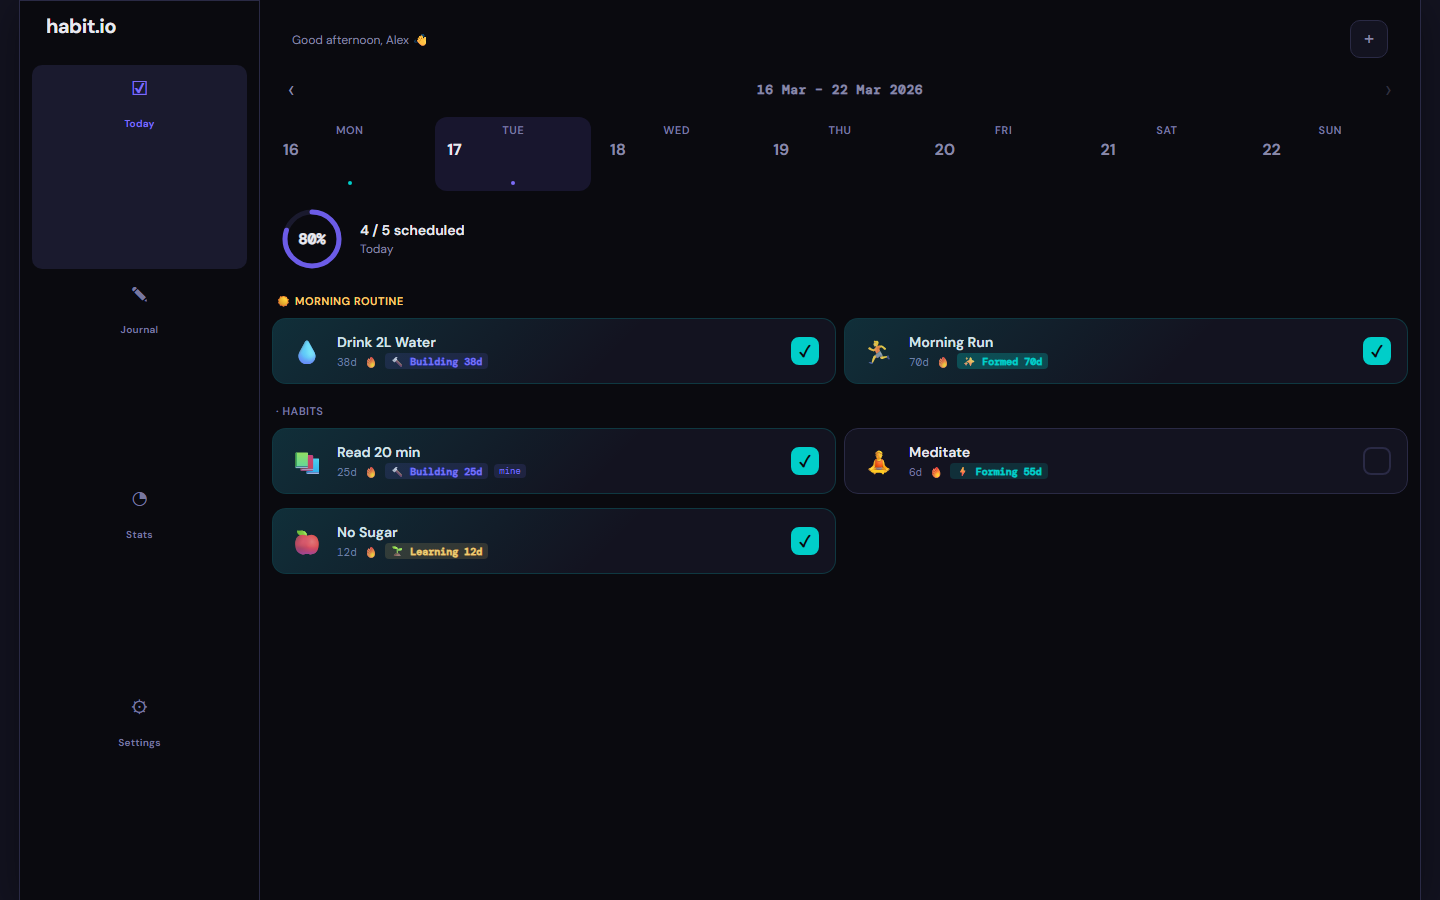
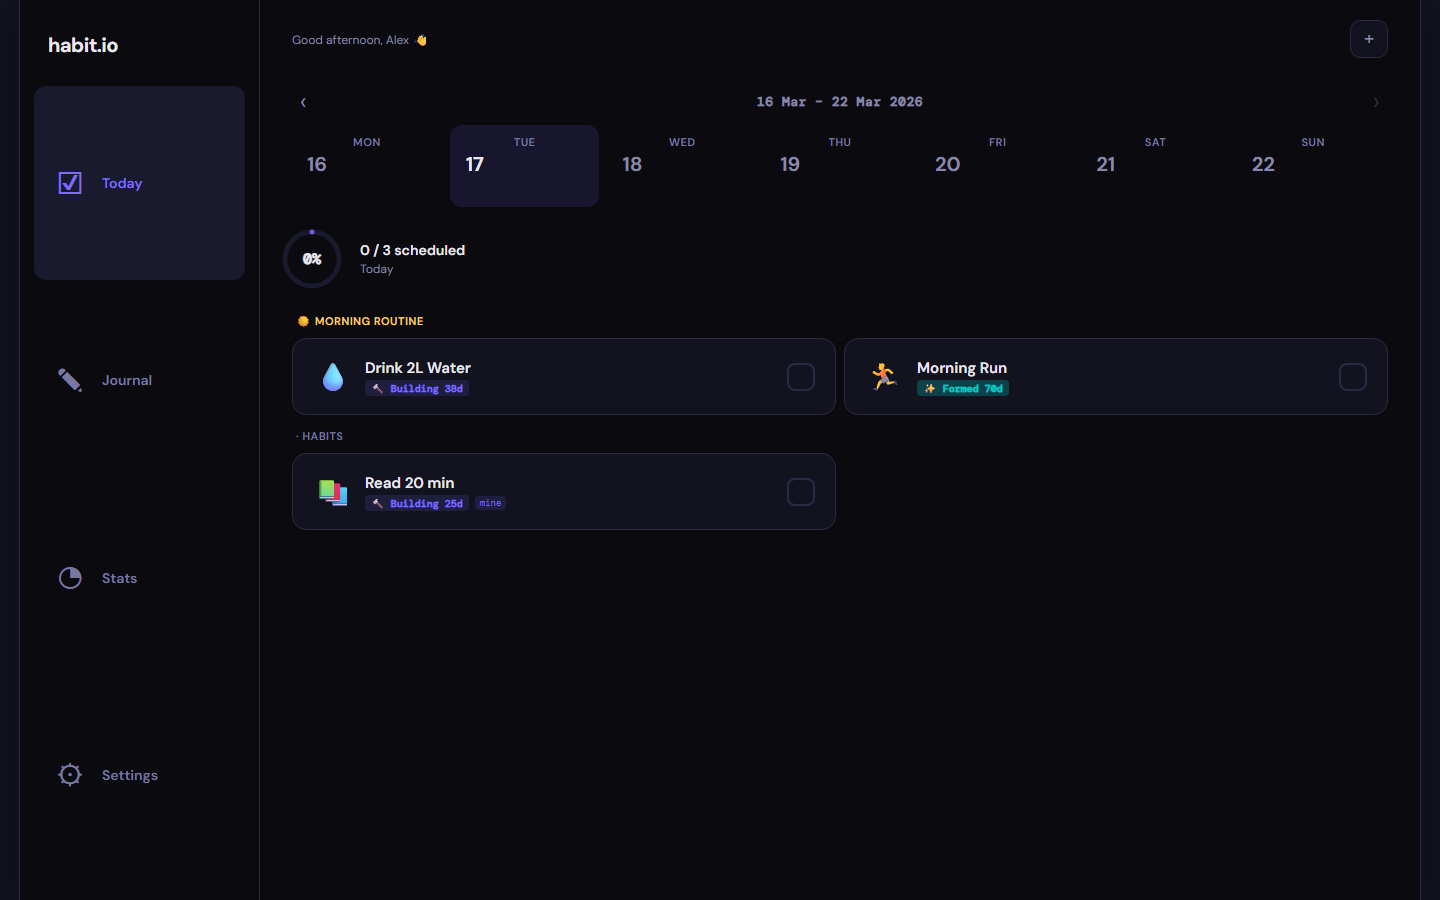
fix: move media queries to end of CSS so they correctly override base rules
The desktop responsive rules (nav icon size, grid layouts, etc.) were placed
before the base component rules, causing the base styles to win the cascade.
Moved both @media blocks to the end of styles.css — standard practice.

Also bumps sidebar nav icon size to 32px for better desktop legibility.

diff --git a/styles.css b/styles.css
@@ -51,185 +51,6 @@
         margin: 0 auto;
       }
 
-      /* ── Desktop / tablet sidebar layout ── */
-      @media (min-width: 768px) {
-        body {
-          background: var(--surface);
-        }
-        #app {
-          display: grid;
-          grid-template-columns: 200px 1fr;
-          grid-template-rows: 1fr;
-          max-width: 1400px;
-          height: 100vh;
-          background: var(--bg);
-          box-shadow: 0 0 0 1px var(--border), 0 8px 40px rgba(0,0,0,0.4);
-        }
-
-        /* ── Sidebar nav ── */
-        .bottom-nav {
-          grid-column: 1;
-          grid-row: 1;
-          flex-direction: column;
-          align-items: stretch;
-          height: 100vh;
-          border-top: none;
-          border-right: 1px solid var(--border);
-          padding: 28px 14px calc(28px + env(safe-area-inset-bottom, 0px));
-          gap: 4px;
-          overflow-y: auto;
-        }
-        .bottom-nav::before {
-          content: 'habit.io';
-          display: block;
-          font-size: 20px;
-          font-weight: 700;
-          letter-spacing: -0.5px;
-          color: var(--text);
-          padding: 4px 14px 24px;
-        }
-        .nav-tab {
-          flex-direction: row;
-          justify-content: flex-start;
-          gap: 14px;
-          padding: 14px 16px;
-          border-radius: 12px;
-          text-align: left;
-        }
-        .nav-icon {
-          font-size: 22px;
-          margin-bottom: 0;
-          width: 26px;
-          text-align: center;
-        }
-        .nav-label {
-          font-size: 14px;
-          font-weight: 600;
-          letter-spacing: 0;
-        }
-        .nav-tab.active {
-          background: var(--surface-2);
-        }
-
-        /* ── Pages ── */
-        .page {
-          grid-column: 2;
-          grid-row: 1;
-          overflow: hidden;
-        }
-        .page.active {
-          display: flex;
-        }
-        .page .header {
-          padding: 28px 32px 16px;
-        }
-        .page .header h1 {
-          font-size: 26px;
-        }
-        .page-scroll {
-          padding: 16px 32px 32px;
-        }
-
-        /* ── Habit cards: 2-column grid ── */
-        .habits-scroll {
-          padding: 0 32px 16px;
-          display: grid;
-          grid-template-columns: repeat(2, 1fr);
-          gap: 8px;
-          align-content: start;
-        }
-        /* Section labels and CTA span full width */
-        .habit-section-label,
-        .first-habit-cta,
-        .onboarding,
-        .motiv-card {
-          grid-column: 1 / -1;
-        }
-        .habit-card {
-          margin-bottom: 0;
-          padding: 18px 20px;
-        }
-        .habit-emoji {
-          font-size: 28px;
-          width: 40px;
-        }
-        .habit-name {
-          font-size: 15px;
-        }
-
-        /* ── Week strip: bigger day cols ── */
-        .week-nav {
-          padding: 12px 32px 8px;
-        }
-        .days-header {
-          padding: 0 32px 12px;
-          gap: 8px;
-        }
-        .day-col {
-          padding: 10px 6px;
-          font-size: 13px;
-          border-radius: 12px;
-        }
-        .day-num {
-          font-size: 20px;
-          width: 38px;
-          height: 38px;
-        }
-
-        /* ── Progress header ── */
-        .progress-header {
-          margin: 8px 32px 16px;
-        }
-
-        /* ── Stat cards: 2-column grid ── */
-        #stats-content {
-          display: grid;
-          grid-template-columns: repeat(2, 1fr);
-          gap: 12px;
-          align-content: start;
-          padding: 16px 32px 32px;
-          overflow-y: auto;
-        }
-        #stats-content .stat-card {
-          margin-bottom: 0;
-        }
-        #stats-content .stat-card:first-child {
-          grid-column: 1 / -1;
-        }
-
-        /* ── Modal: centered dialog ── */
-        .modal {
-          border-radius: 20px;
-          max-width: 560px;
-          margin: auto;
-          max-height: 80vh;
-        }
-        .modal-overlay {
-          align-items: center;
-          justify-content: center;
-        }
-
-        /* ── Tracker header: hide app title (shown in sidebar), keep greeting ── */
-        #page-tracker .header h1 {
-          display: none;
-        }
-        #page-tracker .header {
-          justify-content: space-between;
-          padding-top: 20px;
-        }
-      }
-
-      @media (min-width: 1200px) {
-        #app {
-          grid-template-columns: 240px 1fr;
-        }
-        .habit-group-items {
-          grid-template-columns: repeat(3, 1fr);
-        }
-        .page .header h1 {
-          font-size: 28px;
-        }
-      }
       .header {
         padding: 16px 20px 12px;
         display: flex;
@@ -1485,4 +1306,188 @@
         background: var(--accent);
         border-color: var(--accent);
         color: var(--bg);
+      }
+
+      /* ── Desktop / tablet sidebar layout ── */
+      @media (min-width: 768px) {
+        body {
+          background: var(--surface);
+        }
+        #app {
+          display: grid;
+          grid-template-columns: 200px 1fr;
+          grid-template-rows: 1fr;
+          max-width: 1400px;
+          height: 100vh;
+          background: var(--bg);
+          box-shadow: 0 0 0 1px var(--border), 0 8px 40px rgba(0,0,0,0.4);
+        }
+
+        /* ── Sidebar nav ── */
+        .bottom-nav {
+          grid-column: 1;
+          grid-row: 1;
+          flex-direction: column;
+          align-items: stretch;
+          height: 100vh;
+          border-top: none;
+          border-right: 1px solid var(--border);
+          padding: 28px 14px calc(28px + env(safe-area-inset-bottom, 0px));
+          gap: 4px;
+          overflow-y: auto;
+        }
+        .bottom-nav::before {
+          content: 'habit.io';
+          display: block;
+          font-size: 20px;
+          font-weight: 700;
+          letter-spacing: -0.5px;
+          color: var(--text);
+          padding: 4px 14px 24px;
+        }
+        .nav-tab {
+          flex-direction: row;
+          justify-content: flex-start;
+          gap: 14px;
+          padding: 14px 16px;
+          border-radius: 12px;
+          text-align: left;
+        }
+        .nav-icon {
+          font-size: 32px;
+          margin-bottom: 0;
+          width: 36px;
+          text-align: center;
+          line-height: 1;
+        }
+        .nav-label {
+          font-size: 14px;
+          font-weight: 600;
+          letter-spacing: 0;
+        }
+        .nav-tab {
+          padding: 16px 18px;
+        }
+        .nav-tab.active {
+          background: var(--surface-2);
+        }
+
+        /* ── Pages ── */
+        .page {
+          grid-column: 2;
+          grid-row: 1;
+          overflow: hidden;
+        }
+        .page.active {
+          display: flex;
+        }
+        .page .header {
+          padding: 28px 32px 16px;
+        }
+        .page .header h1 {
+          font-size: 26px;
+        }
+        .page-scroll {
+          padding: 16px 32px 32px;
+        }
+
+        /* ── Habit cards: 2-column grid ── */
+        .habits-scroll {
+          padding: 0 32px 16px;
+          display: grid;
+          grid-template-columns: repeat(2, 1fr);
+          gap: 8px;
+          align-content: start;
+        }
+        /* Section labels and CTA span full width */
+        .habit-section-label,
+        .first-habit-cta,
+        .onboarding,
+        .motiv-card {
+          grid-column: 1 / -1;
+        }
+        .habit-card {
+          margin-bottom: 0;
+          padding: 18px 20px;
+        }
+        .habit-emoji {
+          font-size: 28px;
+          width: 40px;
+        }
+        .habit-name {
+          font-size: 15px;
+        }
+
+        /* ── Week strip: bigger day cols ── */
+        .week-nav {
+          padding: 12px 32px 8px;
+        }
+        .days-header {
+          padding: 0 32px 12px;
+          gap: 8px;
+        }
+        .day-col {
+          padding: 10px 6px;
+          font-size: 13px;
+          border-radius: 12px;
+        }
+        .day-num {
+          font-size: 20px;
+          width: 38px;
+          height: 38px;
+        }
+
+        /* ── Progress header ── */
+        .progress-header {
+          margin: 8px 32px 16px;
+        }
+
+        /* ── Stat cards: 2-column grid ── */
+        #stats-content {
+          display: grid;
+          grid-template-columns: repeat(2, 1fr);
+          gap: 12px;
+          align-content: start;
+          padding: 16px 32px 32px;
+          overflow-y: auto;
+        }
+        #stats-content .stat-card {
+          margin-bottom: 0;
+        }
+        #stats-content .stat-card:first-child {
+          grid-column: 1 / -1;
+        }
+
+        /* ── Modal: centered dialog ── */
+        .modal {
+          border-radius: 20px;
+          max-width: 560px;
+          margin: auto;
+          max-height: 80vh;
+        }
+        .modal-overlay {
+          align-items: center;
+          justify-content: center;
+        }
+
+        /* ── Tracker header: hide app title (shown in sidebar), keep greeting ── */
+        #page-tracker .header h1 {
+          display: none;
+        }
+        #page-tracker .header {
+          justify-content: space-between;
+          padding-top: 20px;
+        }
+      }
+
+      @media (min-width: 1200px) {
+        #app {
+          grid-template-columns: 240px 1fr;
+        }
+        .habit-group-items {
+          grid-template-columns: repeat(3, 1fr);
+        }
+        .page .header h1 {
+          font-size: 28px;
+        }
       }
